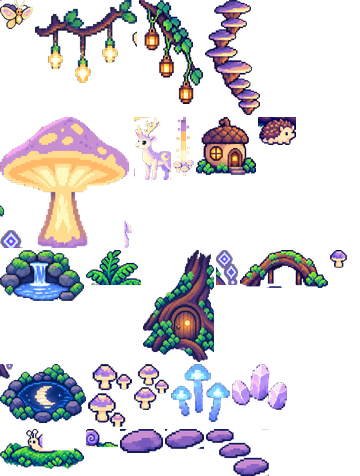
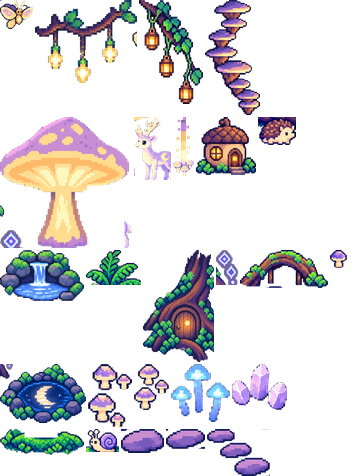
fix: ground Lumi in the gardens and free the snail from the moss

diff --git a/src/pixel/gardenParts.ts b/src/pixel/gardenParts.ts
@@ -65,9 +65,9 @@ export const MUSHROOM_PARTS: GardenPart[] = [
   { unlock: 3, name: "mushroom-cluster", x: 168, y: 418, width: 35, height: 46, atlasX: 134, atlasY: 364 },
   { unlock: 5, name: "blue-mushrooms", x: 390, y: 424, width: 59, height: 58, atlasX: 171, atlasY: 364 },
   { unlock: 7, name: "crystals", x: 421, y: 479, width: 55, height: 46, atlasX: 232, atlasY: 364 },
-  { unlock: 0, name: "moss-patch", x: 194, y: 486, width: 84, height: 40, atlasX: 0, atlasY: 429 },
-  { unlock: 4, name: "visitor-snail", x: 237, y: 490, width: 32, height: 18, atlasX: 86, atlasY: 429 },
-  { unlock: 11, name: "stepping-stones-6", x: 358, y: 510, width: 43, height: 24, atlasX: 120, atlasY: 429 },
-  { unlock: 11, name: "stepping-stones-5", x: 335, y: 494, width: 39, height: 20, atlasX: 165, atlasY: 429 },
-  { unlock: 11, name: "stepping-stones-4", x: 284, y: 450, width: 63, height: 47, atlasX: 206, atlasY: 429 },
+  { unlock: 0, name: "moss-patch", x: 194, y: 500, width: 84, height: 26, atlasX: 0, atlasY: 429 },
+  { unlock: 4, name: "visitor-snail", x: 219, y: 486, width: 33, height: 23, atlasX: 86, atlasY: 429 },
+  { unlock: 11, name: "stepping-stones-6", x: 358, y: 510, width: 43, height: 24, atlasX: 121, atlasY: 429 },
+  { unlock: 11, name: "stepping-stones-5", x: 335, y: 494, width: 39, height: 20, atlasX: 166, atlasY: 429 },
+  { unlock: 11, name: "stepping-stones-4", x: 284, y: 450, width: 63, height: 47, atlasX: 207, atlasY: 429 },
 ];

diff --git a/src/pixel/garden.css b/src/pixel/garden.css
@@ -142,17 +142,30 @@
   white-space: nowrap;
 }
 
+/* Lumi stands in the scene: smaller, on the ground, lit like the night around her. */
 .garden-lumi {
   position: absolute;
-  top: 376px;
-  left: 34px;
+  top: 400px;
+  left: 30px;
   width: 193px;
   height: 211px;
-  transform: scale(.72);
+  transform: scale(.6);
   transform-origin: 0 0;
 }
 
-.garden-shell .garden-water { top: 168px; left: 181px; }
+.garden-lumi .lumi-body {
+  filter: brightness(.95) saturate(.95) drop-shadow(0 0 10px rgba(255, 230, 167, .22));
+}
+
+.garden-lumi-shadow {
+  position: absolute;
+  top: 188px;
+  left: 18px;
+  width: 160px;
+  height: 26px;
+  border-radius: 50%;
+  background: radial-gradient(closest-side, rgba(8, 10, 28, .6), rgba(8, 10, 28, 0));
+}
 
 .garden-panel {
   position: absolute;
@@ -352,4 +365,4 @@
   box-shadow: none;
 }
 
-.garden-title--long { font-size: 12px; }
+.garden-shell .garden-title--long { font-size: 11px; letter-spacing: 0; }

diff --git a/src/pixel/GardenView.tsx b/src/pixel/GardenView.tsx
@@ -122,13 +122,8 @@ export function GardenView({
       <SeasonLayer season={season} />
 
       <div className="garden-lumi">
-        <Lumi state="water" season={season} label="Lumi tending the garden" style={{ left: 0, top: 0, width: LUMI.width, height: LUMI.height }} />
-        <span className="pixel-water garden-water" aria-hidden="true">
-          <i />
-          <i />
-          <i />
-          <i />
-        </span>
+        <i className="garden-lumi-shadow" aria-hidden="true" />
+        <Lumi state="idle" season={season} label="Lumi tending the garden" style={{ left: 0, top: 0, width: LUMI.width, height: LUMI.height }} />
       </div>
 
       <button className="pixel-hit garden-home" type="button" aria-label="Back to home" onClick={onBack} />
